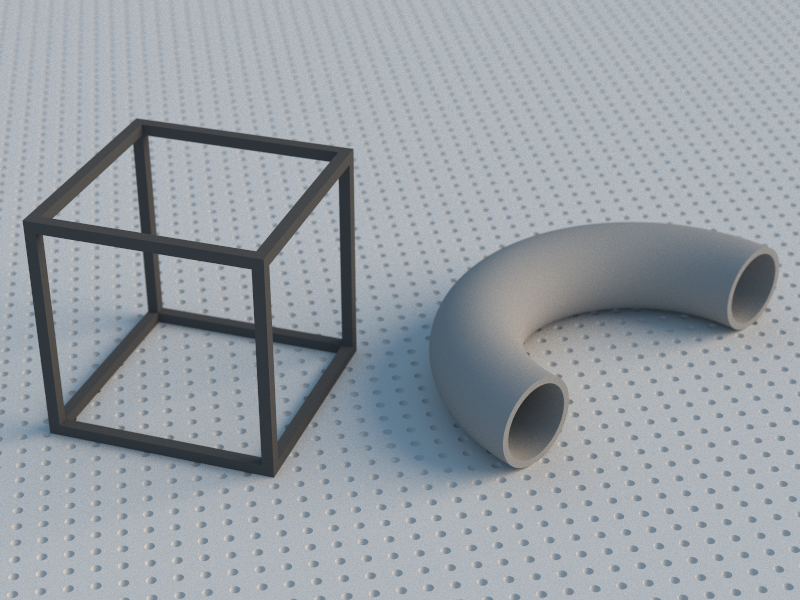
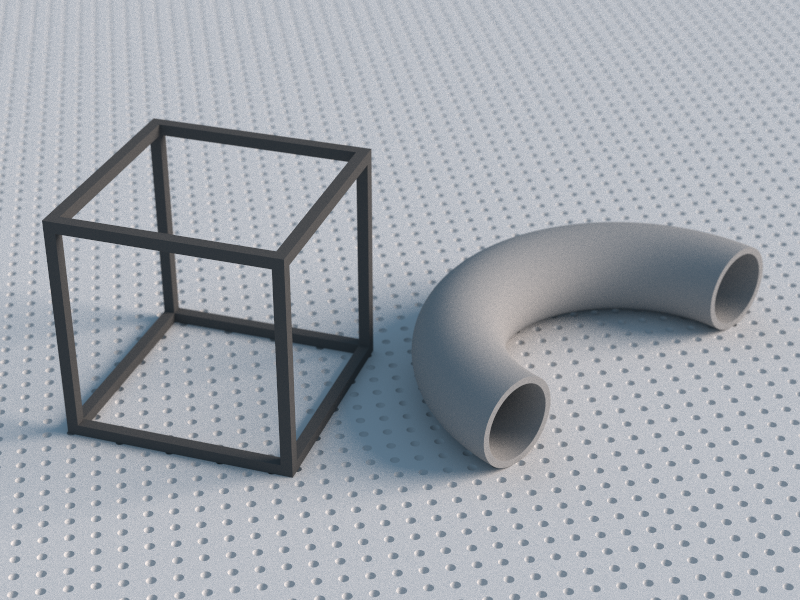
Update sample scene

diff --git a/src/main.rs b/src/main.rs
@@ -11,15 +11,15 @@ use glam::{vec3, Vec3};
 
 const WIDTH: i32 = 800;
 const HEIGHT: i32 = 600;
-const SAMPLE_COUNT: i32 = 2000;
+const SAMPLE_COUNT: i32 = 50;
 const ASPECT_RATIO: f32 = WIDTH as f32 / HEIGHT as f32;
 
 fn background_color(direction: Vec3) -> Vec3 {
-    if direction.dot(vec3(1.0, 0.0, 0.5).normalize()) > 0.9 {
-        6.0 * vec3(1.0, 0.8, 0.6)
+    if direction.dot(vec3(1.0, 0.0, 0.5).normalize()) > 0.95 {
+        15.0 * vec3(1.0, 0.85, 0.75)
     }
     else {
-        0.6 * vec3(0.4, 0.7, 1.0)
+        0.5 * vec3(0.4, 0.7, 1.0)
     }
 }
 
@@ -52,7 +52,7 @@ fn main() {
             .union(cuboid(vec3(thickness, thickness, 100.0)))
         )
         .rotate(Vec3::Z, -0.1 * PI)
-        .position(vec3(-1.65, 0.0, 1.0))
+        .position(vec3(-1.5, 0.0, 1.0))
         .material(Material::Lambertian(Vec3::splat(0.075)))
     };
 
@@ -62,7 +62,7 @@ fn main() {
         .subtract(
             plane(vec3(-1.0, 1.0, 0.0). normalize())
         )
-        .position(vec3(2.15, 0.0, 0.4))
+        .position(vec3(2.0, 0.0, 0.4))
         .material(Material::Lambertian(Vec3::splat(0.3)));
 
     let map = ground.union(frame).union(tube);
